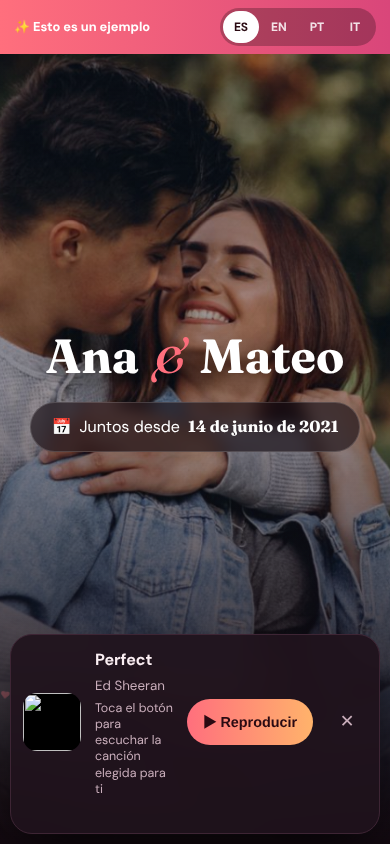
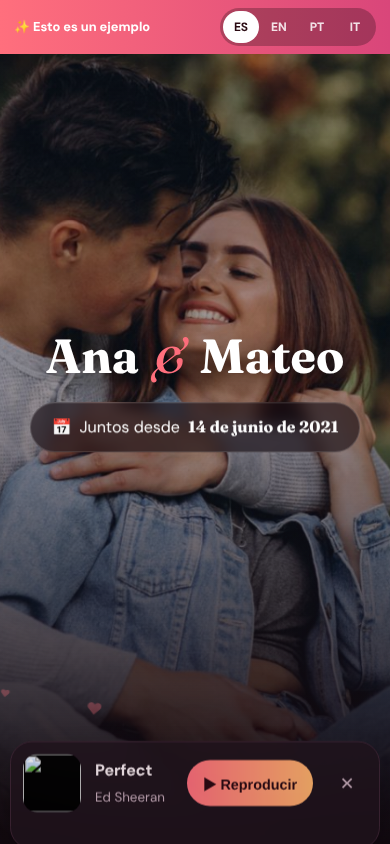
Animaciones de aparición y transiciones en la página de la pareja
Claude-Session: https://claude.ai/code/session_01BDfrGGkL43Xd1SA5QuQ9Ub

diff --git a/index.html b/index.html
@@ -376,6 +376,54 @@ dialog.lightbox button{display:block;margin:12px auto 0;min-height:44px}
 .lp-wrap{max-width:680px;margin:0 auto;padding:0 18px 140px;position:relative;z-index:1}
 .lp-wrap .gallery{margin-top:10px}
 
+
+/* ===== Movimiento de la página de la pareja ===== */
+.rv{transition:opacity .8s cubic-bezier(.2,.7,.2,1),transform .8s cubic-bezier(.2,.7,.2,1);transition-delay:var(--d,0s)}
+.rv[data-rv=up40]{transform:translateY(40px)}
+.rv[data-rv=left]{transform:translateX(-28px)}
+.rv[data-rv=right]{transform:translateX(28px)}
+.rv[data-rv=zoom]{transform:scale(.88)}
+.rv[data-rv=pop]{transform:scale(.6)}
+.rv[data-rv=drop]{transform:translateY(-30px) rotate(calc(var(--r,0deg) * 3))}
+.rv.in{opacity:1;transform:none}
+.polaroid.rv.in{transform:rotate(var(--r))}
+.lp-top{animation:slideDown .7s cubic-bezier(.2,.7,.2,1) both}
+@keyframes slideDown{from{transform:translateY(-100%)}}
+.lp-hero h1>span{display:inline-block;animation:inUp 1s cubic-bezier(.2,.7,.2,1) both}
+.lp-hero h1>span:nth-child(1){animation-name:inLeft;animation-delay:.3s}
+.lp-hero h1>span.amp{animation:popIn .8s cubic-bezier(.3,1.6,.5,1) .8s both,beat 1.6s ease-in-out 2s infinite}
+.lp-hero h1>span:nth-child(3){animation-name:inRight;animation-delay:.55s}
+.lp-hero .date-pill{animation:inUp .9s cubic-bezier(.2,.7,.2,1) 1.1s both}
+.lp-hero .scroll{animation:fadeIn 1s ease 1.8s both}
+.player-dock .music{animation:inUpBig .9s cubic-bezier(.2,.7,.2,1) 1.4s both}
+@keyframes inLeft{from{opacity:0;transform:translateX(-50px)}}
+@keyframes inRight{from{opacity:0;transform:translateX(50px)}}
+@keyframes inUp{from{opacity:0;transform:translateY(24px)}}
+@keyframes inUpBig{from{opacity:0;transform:translateY(120%)}}
+@keyframes fadeIn{from{opacity:0}}
+@keyframes popIn{from{opacity:0;transform:scale(0) rotate(-25deg)}}
+@keyframes beat{0%,100%{transform:scale(1)}15%{transform:scale(1.18)}30%{transform:scale(1)}45%{transform:scale(1.12)}}
+/* números del contador: cambio con giro suave */
+.counter b.tick{animation:tick .45s cubic-bezier(.2,.7,.2,1)}
+@keyframes tick{from{opacity:.2;transform:translateY(-10px) rotateX(70deg)}}
+.counter div{transition:transform .25s,box-shadow .25s}
+.counter div:hover{transform:translateY(-4px);box-shadow:0 14px 30px -18px var(--accent)}
+/* carta: comillas que entran desde la izquierda y corazón que late */
+.letter::before{transition:transform .9s cubic-bezier(.2,.7,.2,1) .3s,opacity .9s .3s}
+.letter.rv:not(.in)::before{opacity:0;transform:translateX(-24px)}
+.letter p{transition:opacity .9s ease;transition-delay:calc(var(--i,0) * .25s + .4s)}
+.letter.rv:not(.in) p{opacity:0}
+.lp-heart{display:inline-block;color:var(--accent);font-size:1.6rem;animation:beat 1.6s ease-in-out infinite}
+/* brillo que recorre el botón principal */
+.shine{position:relative;overflow:hidden}
+.shine::after{content:"";position:absolute;inset:0;background:linear-gradient(110deg,transparent 30%,rgba(255,255,255,.45) 50%,transparent 70%);transform:translateX(-120%);animation:shimmer 3.2s ease-in-out 2s infinite}
+@keyframes shimmer{60%,100%{transform:translateX(120%)}}
+/* disco/portada que gira mientras suena */
+.player-dock .music.playing .thumb{animation:pulseGlow 2s ease-in-out infinite}
+@keyframes pulseGlow{50%{box-shadow:0 0 0 6px rgba(255,111,125,.25)}}
+@media (max-width:480px){.player-dock .music .t small.hint{display:none}}
+@media (prefers-reduced-motion:reduce){.rv,.letter p,.letter::before{opacity:1!important;transform:none!important}}
+
 /* Reveal sutil */
 .rv{opacity:0;transform:translateY(16px);transition:opacity .6s,transform .6s}
 .rv.in{opacity:1;transform:none}
@@ -1184,7 +1232,7 @@ async function viewLove(p){
   const mems = (p.memories || []).filter(m => m.img);
   const cover = (p.photos || [])[0];
   const rest = (p.photos || []).slice(1);
-  const galleryHtml = rest.map((src, i) => `<button type="button" data-ph="${i + 1}" aria-label="Foto ${i + 2}"><img src="${src}" alt="" loading="lazy"></button>`).join("") + (p.demo ? demoFill : "");
+  const galleryHtml = rest.map((src, i) => `<button type="button" class="rv" data-rv="zoom" data-ph="${i + 1}" aria-label="Foto ${i + 2}"><img src="${src}" alt="" loading="lazy"></button>`).join("") + (p.demo ? demoFill : "");
   setView(`
     <header class="lp-top ${p.demo ? "demo" : ""}">
       ${p.demo ? `<span class="tag-demo">✨ <span class="long">${T("demo")}</span></span>` : !p.paid ? `<span class="tag-demo">${T("preview")}</span>` : `<span class="logo" style="font-size:1rem"><i>♥</i></span>`}
@@ -1202,19 +1250,19 @@ async function viewLove(p){
     <div class="hearts" aria-hidden="true">${Array.from({ length: 12 }, (_, i) => `<span style="left:${(i * 37) % 100}%;font-size:${10 + (i * 7) % 18}px;animation-duration:${9 + (i * 3) % 9}s;animation-delay:${(i * 1.7) % 10}s">♥</span>`).join("")}</div>
     <main class="lp-wrap">
       <section class="lp-sec" id="lp-time">
-        <span class="eyebrow">${T("loveTime")}</span>
-        <h2>${T("time")}</h2><p class="muted" style="margin:0">${T("sub")}</p>
-        <div class="counter" id="ctr">${["y","mo","d","h","mi","s"].map(k => `<div><b data-k="${k}">00</b>${T(k)}</div>`).join("")}</div>
+        <span class="eyebrow rv">${T("loveTime")}</span>
+        <h2 class="rv">${T("time")}</h2><p class="muted rv" style="margin:0">${T("sub")}</p>
+        <div class="counter" id="ctr" data-stagger>${["y","mo","d","h","mi","s"].map(k => `<div class="rv" data-rv="zoom"><b data-k="${k}">00</b>${T(k)}</div>`).join("")}</div>
       </section>
-      ${galleryHtml ? `<section class="lp-sec" style="padding-top:0"><h2>${T("photos")}</h2><div class="gallery">${galleryHtml}</div></section>` : ""}
-      ${mems.length ? `<section class="mems lp-sec"><h2>${T("memories")}</h2><div class="mem-grid">${mems.map((m, i) => `<figure class="polaroid" style="--r:${[-2.5, 2, -1.5, 3][i % 4]}deg"><button type="button" data-mem="${i}" aria-label="Recuerdo ${i + 1}"><img src="${m.img}" alt="" loading="lazy"></button>${m.text ? `<figcaption>${esc(m.text)}</figcaption>` : ""}</figure>`).join("")}</div></section>` : ""}
-      ${p.letter ? `<section class="lp-sec"><span class="eyebrow">${T("letterEy")}</span><article class="letter" style="text-align:left;margin-top:14px"><p>${esc(p.letter)}</p><p class="sign">${T("love")}<br><b>${esc(p.sign || p.a)}</b></p></article></section>` : ""}
+      ${galleryHtml ? `<section class="lp-sec" style="padding-top:0"><h2 class="rv">${T("photos")}</h2><div class="gallery" data-stagger>${galleryHtml}</div></section>` : ""}
+      ${mems.length ? `<section class="mems lp-sec"><h2 class="rv">${T("memories")}</h2><div class="mem-grid" data-stagger>${mems.map((m, i) => `<figure class="polaroid rv" data-rv="drop" style="--r:${[-2.5, 2, -1.5, 3][i % 4]}deg"><button type="button" data-mem="${i}" aria-label="Recuerdo ${i + 1}"><img src="${m.img}" alt="" loading="lazy"></button>${m.text ? `<figcaption>${esc(m.text)}</figcaption>` : ""}</figure>`).join("")}</div></section>` : ""}
+      ${p.letter ? `<section class="lp-sec"><span class="lp-heart" aria-hidden="true">♥</span><br><span class="eyebrow rv">${T("letterEy")}</span><article class="letter rv" data-rv="up40" style="text-align:left;margin-top:14px">${esc(p.letter).split(/\n{2,}/).map((t, i) => `<p style="--i:${i}">${t}</p>`).join("")}<p class="sign" style="--i:9">${T("love")}<br><b>${esc(p.sign || p.a)}</b></p></article></section>` : ""}
       <section class="lp-share lp-sec">
-        <h2>${T("share")}</h2>
-        <button class="btn sm" id="lpQr">${T("qr")}</button>
-        <div class="share">${shareButtons(url, p, I18N[lang])}</div>
+        <h2 class="rv">${T("share")}</h2>
+        <button class="btn sm rv" data-rv="pop" id="lpQr">${T("qr")}</button>
+        <div class="share" data-stagger>${shareButtons(url, p, I18N[lang])}</div>
       </section>
-      <div class="card center"><p style="margin-bottom:.8em"><b>${T("liked")}</b></p><a class="btn" href="${baseUrl()}#/crear">${T("create")} · ${esc(CONFIG.price)}</a></div>
+      <div class="card center rv" data-rv="up40"><p style="margin-bottom:.8em"><b>${T("liked")}</b></p><a class="btn shine" href="${baseUrl()}#/crear">${T("create")} · ${esc(CONFIG.price)}</a></div>
       <p class="lp-foot">${T("made")} ♥ ${esc(CONFIG.brand)}</p>
     </main>
     ${hasSong ? `<div class="player-dock"><div class="music" id="mus">
@@ -1241,8 +1289,13 @@ async function viewLove(p){
   setLang(lang);
   // Contador en vivo
   const from = startDate(p), cells = Object.fromEntries($$("#ctr [data-k]").map(b => [b.dataset.k, b]));
-  const tick = () => { const d = diff(from); for (const k in cells) cells[k].textContent = pad(d[k]); };
+  const tick = () => { const d = diff(from); for (const k in cells){ const v = pad(d[k]); if (cells[k].textContent !== v){ cells[k].textContent = v; cells[k].classList.remove("tick"); void cells[k].offsetWidth; cells[k].classList.add("tick"); } } };
   tick(); const iv = setInterval(tick, 1000); cleanup.push(() => clearInterval(iv));
+  // Apariciones al hacer scroll (con retraso escalonado en grupos)
+  $$("[data-stagger]").forEach(g => [...g.children].forEach((c, i) => { c.classList.add("rv"); c.style.setProperty("--d", (i * 0.09) + "s"); }));
+  const rvIo = new IntersectionObserver(es => es.forEach(x => { if (x.isIntersecting){ x.target.classList.add("in"); rvIo.unobserve(x.target); } }), { threshold: .15, rootMargin: "0px 0px -40px 0px" });
+  $$(".lp-wrap .rv").forEach(el => rvIo.observe(el));
+  cleanup.push(() => rvIo.disconnect());
   // Música (reproductor flotante; se puede minimizar sin detener la canción)
   if (emb && emb.type === "yt") mountYouTube(emb.id, () => I18N[lang]);
   const mm = $("#musMin"), mx = $("#musMax");
